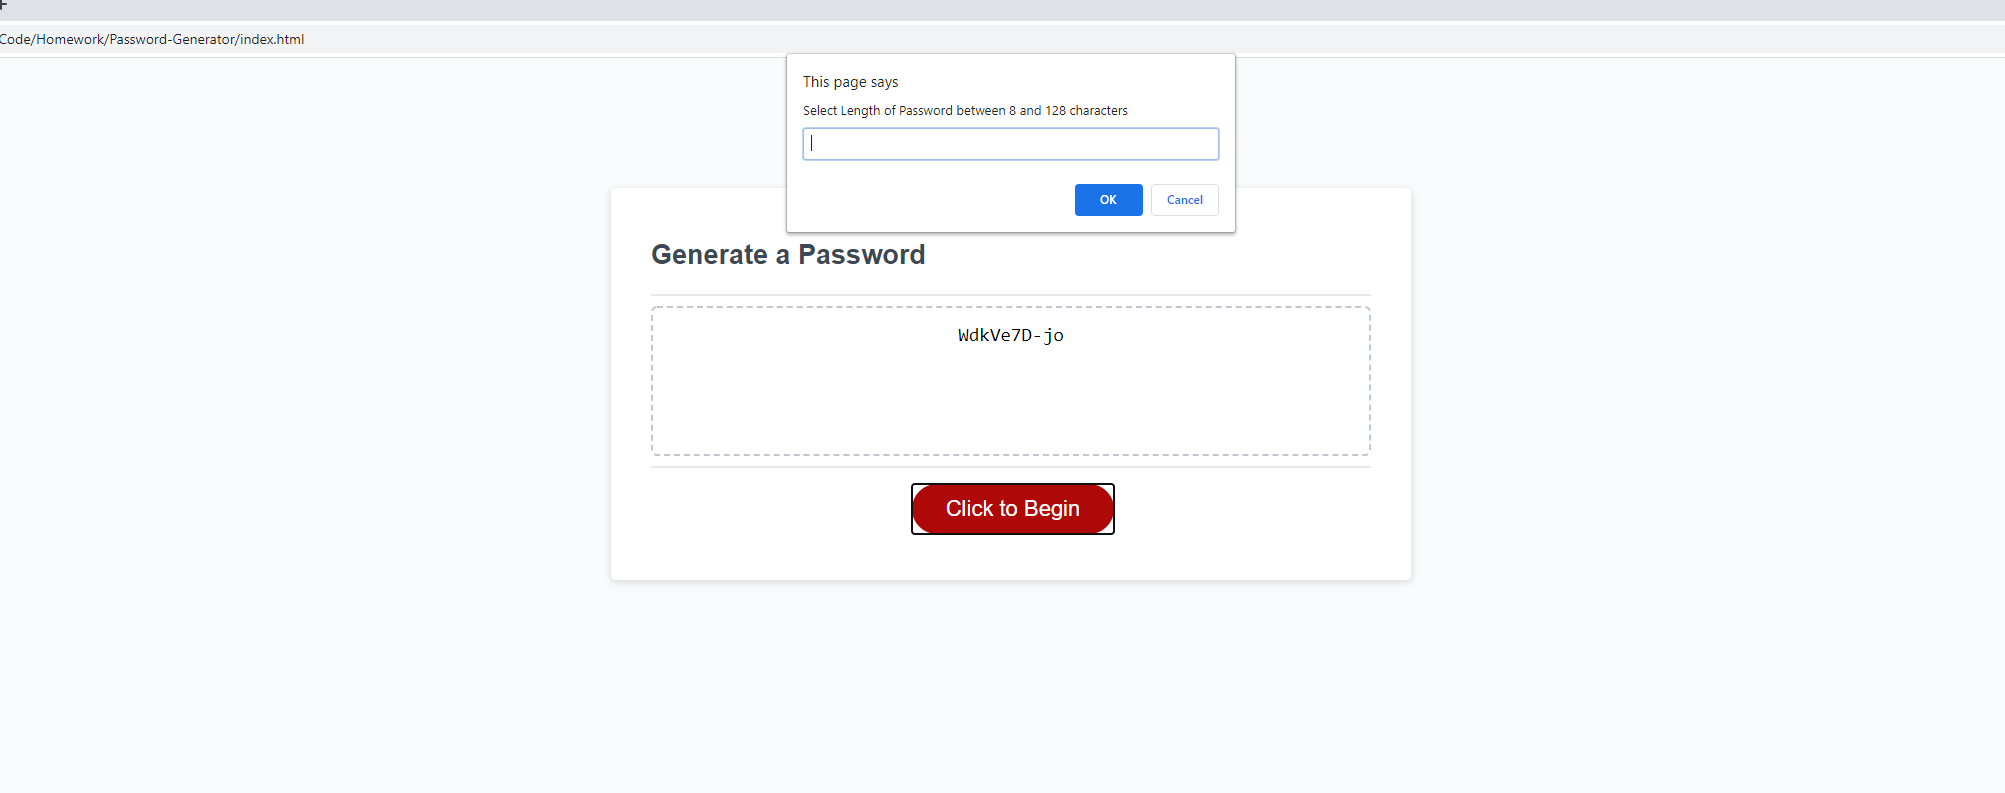
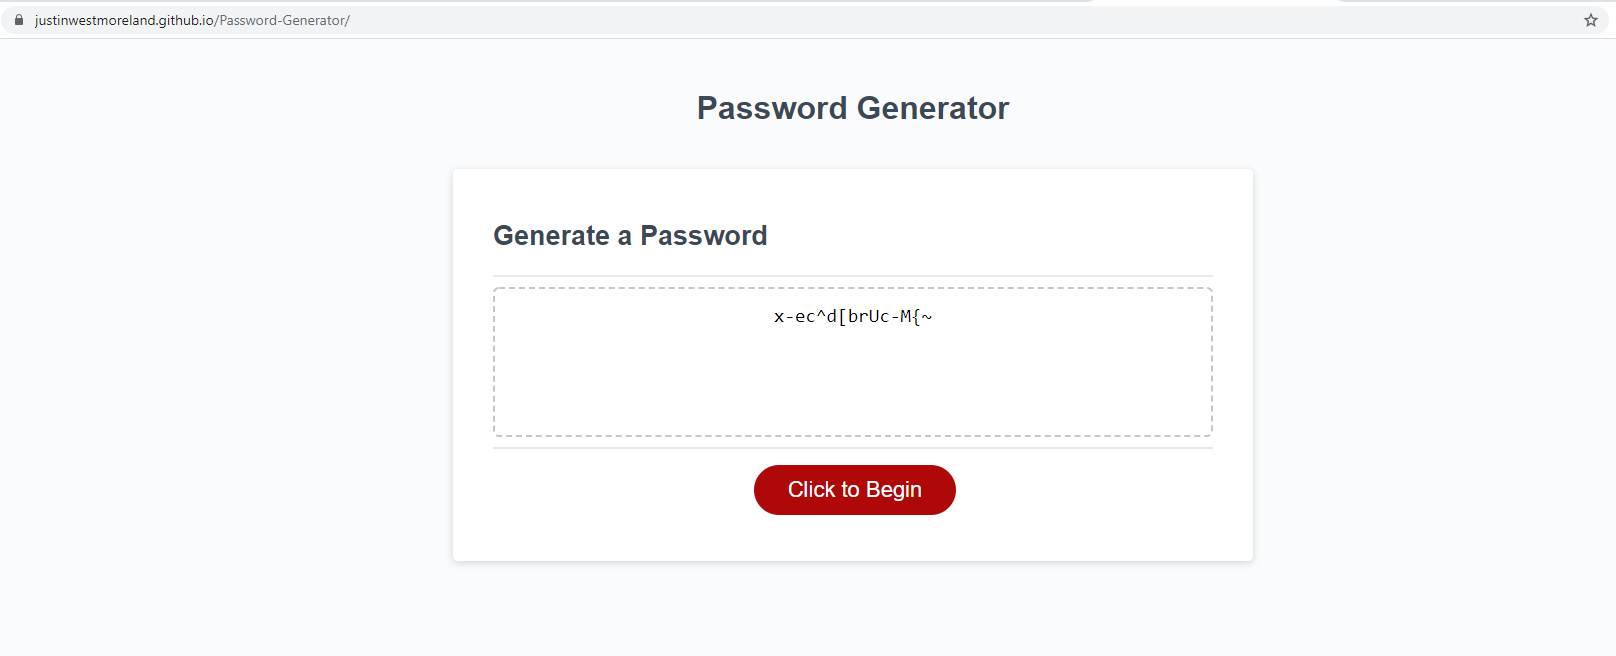
Updated ReadMe, updated front end layout

diff --git a/index.html b/index.html
@@ -1,34 +1,33 @@
 <!DOCTYPE html>
 <html lang="en">
-  <head>
-    <meta charset="UTF-8" />
-    <meta name="viewport" content="width=device-width, initial-scale=1.0" />
-    <meta http-equiv="X-UA-Compatible" content="ie=edge" />
-    <title>Password Generator</title>
-    <link rel="stylesheet" href="style.css" />
-  </head>
-  <body>
-    <div class="wrapper">
-      <header>
-        <h1>Password Generator</h1>
-      </header>
-      <div class="card">
-        <div class="card-header">
-          <h2>Generate a Password</h2>
-        </div>
-        <div class="card-body">
-          <textarea
-            readonly
-            id="password"
-            placeholder="Your Secure Password"
-            aria-label="Generated Password"
-          ></textarea>
-        </div>
-        <div class="card-footer">
-          <button id="generate" class="btn">Click to Begin</button>
-        </div>
+
+<head>
+  <meta charset="UTF-8" />
+  <meta name="viewport" content="width=device-width, initial-scale=1.0" />
+  <meta http-equiv="X-UA-Compatible" content="ie=edge" />
+  <title>Password Generator</title>
+  <link rel="stylesheet" href="style.css" />
+</head>
+
+<body>
+  <div class="wrapper">
+    <header>
+      <h1>Password Generator</h1>
+    </header>
+    <div class="card">
+      <div class="card-header">
+        <button id="generate" class="btn">Click to Begin</button>
+        <!-- <h2>Generate a Password</h2> -->
+      </div>
+      <div class="card-body">
+        <textarea readonly id="password" placeholder="Your Secure Password Will Display Here When Ready" aria-label="Generated Password"></textarea>
+      </div>
+      <div class="card-footer">
+        <h2></h2>
       </div>
     </div>
-    <script src="./newscript.js"></script>
-  </body>
+  </div>
+  <script src="./newscript.js"></script>
+</body>
+
 </html>

diff --git a/newscript.js b/newscript.js
@@ -7,7 +7,7 @@ var specials = ['!', '#', '$', '%', '&', '(', ')', '*', '+', ',', '-', '.', '/',
 
 function writePassword() {
   //this loop promopts people to enter a password length of their choosing. If password is fewer than 8 or greater 
-  //than 128 the function is stopped and restarted. If the user selects cancel at any time, the function is cancelled. 
+  //than 128 characters the function is stopped and restarted. If the user selects cancel at any time, the function is cancelled. 
   var oneArray = [];
   var passwordLength = window.prompt("Select Length of Password between 8 and 128 characters");
   if (passwordLength === null) {

diff --git a/style.css b/style.css
@@ -39,7 +39,9 @@ header {
   font-size: 18px;
   margin: 0 auto;
   max-width: 800px;
-  padding: 30px 40px;
+  padding: 30px 40px;  
+  text-align: center;
+
 }
 
 .card-header::after {

diff --git a/README.md b/README.md
@@ -1,4 +1,19 @@
 # Password-Generator
 
+This project involved creating the logic to generate a random password based on five inputs, all front end design was provided however the layout was chaged to create a more linear understanding based on user feedback. My test users indicated that having the button below the text box gave them the impression that they needed to fill in the text box before clicking the button to begin user input. 
+
+Once users click the button to begin, they will be propmpted for the following inputs:
+1. How many characters the user needed their password to be, between 8 and 128.
+2. Whether or not the user would like to use lowercase letters.
+3. Whether or not the user would like to use uppercase letters.
+4. Whether or not the user would like to use numbers.
+5. Whether or not the user would like to use special characters.
+
+My favorite part of this project was not only programming the logic for what to do when the user selects the correct choices, but looping through the possible combinations of incorrect user inputs and deciding how the website would respond.
+
+Here is a link to my project! https://justinwestmoreland.github.io/Password-Generator/
+
+Enjoy your new secure passwords!
+
 ![screenshot of generator](passwordgenerator.png)
 
